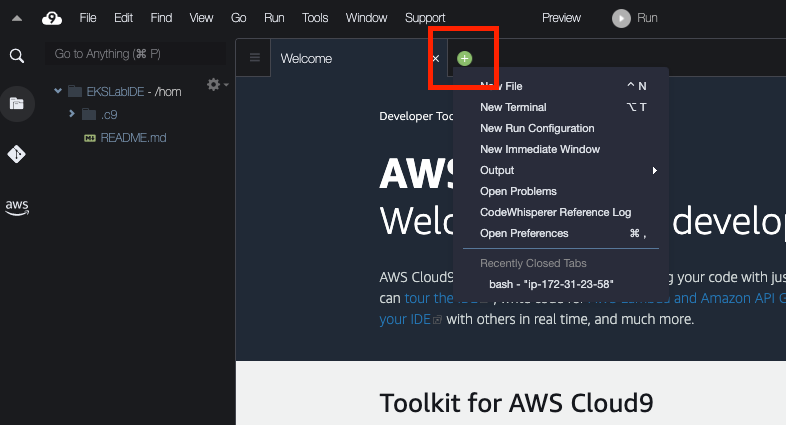
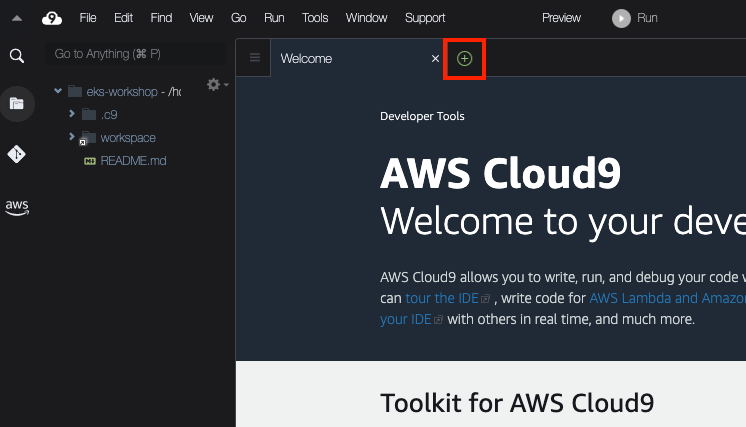
Updated IDE instructions to reflect new Cloud9 UI and naming

diff --git a/website/docs/introduction/ide.md b/website/docs/introduction/ide.md
@@ -13,7 +13,7 @@ When the main Cloud9 screen opens expand the menu on the left side of the screen
 
 ![Access Cloud9 service menu](./assets/menu.png)
 
-Then select **Shared with you**. There is a Cloud9 environment available with a name that contains **EKSLabIDE**, which can be launched using the **Open IDE** button.
+There will be a Cloud9 environment available, click the **Open** button to launch the IDE:
 
 ![Open the Cloud9 IDE](./assets/environment.png)
 
@@ -38,7 +38,6 @@ $ aws eks describe-cluster --name $EKS_CLUSTER_NAME
         "name": "eks-workshop",
         "arn": "arn:aws:eks:us-west-2:1234567890:cluster/eks-workshop",
         "createdAt": 1662084731.367,
-        "version": "1.23",
         "endpoint": "https://7C18D86993E776387BB6C040FBA9D359.sk1.us-west-2.eks.amazonaws.com",
 [...]
 }
